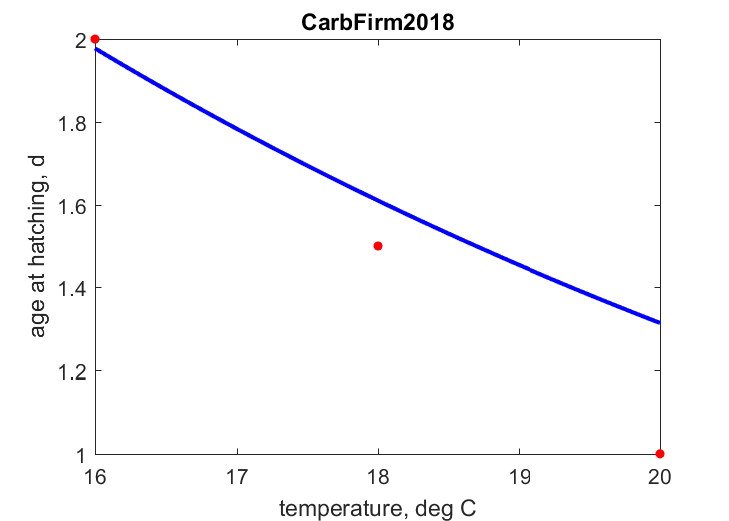
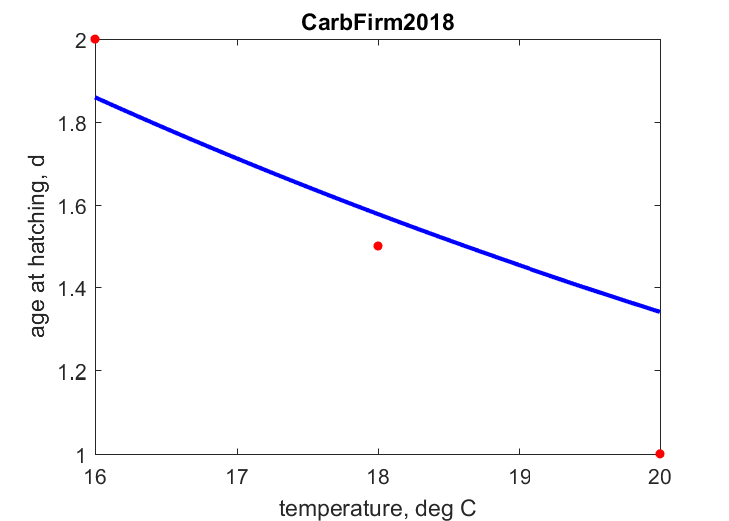
new fits and pars 09-Nov-21

diff --git a/Solea_senegalensis_res.html b/Solea_senegalensis_res.html
@@ -44,7 +44,7 @@
   </div>
 
   <div class="par">
-  <h4>COMPLETE = 3.5; MRE =    0.190; SMSE =    0.205 </h4>
+  <h4>COMPLETE = 3.5; MRE =    0.169; SMSE =    0.197 </h4>
   </div>
 
   <p class="clear"></p>
@@ -53,57 +53,57 @@
   <h2>Data & predictions</h2>
   <TABLE id="prd">
     <TR  class="head"><TH>data</TH> <TH>prd</TH> <TH>RE</TH>  <TH>symbol</TH> <TH>units</TH> <TH>description</TH> </TR>
-    <TR><TD>1.58</TD> <TD>1.382</TD> <TD>0.1253</TD> <TD>ah</TD> <TD>d</TD> <TD>age at hatching</TD></TR>
-    <TR><TD>3.6</TD> <TD>2.968</TD> <TD>0.1756</TD> <TD>ab</TD> <TD>d</TD> <TD>age at birth</TD></TR>
-    <TR><TD> 19</TD> <TD>17.9</TD> <TD>0.05812</TD> <TD>aj</TD> <TD>d</TD> <TD>time since fertilization at END of metamorphosis</TD></TR>
-    <TR><TD>1460</TD> <TD>1174</TD> <TD>0.1961</TD> <TD>ap</TD> <TD>d</TD> <TD>age at puberty</TD></TR>
-    <TR><TD>4015</TD> <TD>4117</TD> <TD>0.02539</TD> <TD>am</TD> <TD>d</TD> <TD>life span</TD></TR>
-    <TR><TD>0.1</TD> <TD>0.07772</TD> <TD>0.2228</TD> <TD>L0</TD> <TD>cm</TD> <TD>egg diameter</TD></TR>
-    <TR><TD>0.1382</TD> <TD>0.1349</TD> <TD>0.02396</TD> <TD>Lh</TD> <TD>cm</TD> <TD>total length at hatching</TD></TR>
-    <TR><TD>0.2484</TD> <TD>0.2125</TD> <TD>0.1445</TD> <TD>Lb</TD> <TD>cm</TD> <TD>total length at birth</TD></TR>
-    <TR><TD>0.9176</TD> <TD>0.6994</TD> <TD>0.2378</TD> <TD>Lj</TD> <TD>cm</TD> <TD>total length at end of metamorphosis</TD></TR>
-    <TR><TD> 38</TD> <TD>35.8</TD> <TD>0.05794</TD> <TD>Lp_f</TD> <TD>cm</TD> <TD>total length at puberty in females</TD></TR>
-    <TR><TD> 33</TD> <TD>34.72</TD> <TD>0.05198</TD> <TD>Lp_m</TD> <TD>cm</TD> <TD>total length at puberty in males</TD></TR>
-    <TR><TD> 52</TD> <TD>47.71</TD> <TD>0.08257</TD> <TD>Li</TD> <TD>cm</TD> <TD>ultimate total length</TD></TR>
-    <TR><TD>4.615e-05</TD> <TD>4.917e-05</TD> <TD>0.0654</TD> <TD>Wd0</TD> <TD>g</TD> <TD>egg dry weigth</TD></TR>
-    <TR><TD>33.19</TD> <TD> 45</TD> <TD>0.3559</TD> <TD>Wdh</TD> <TD>ug</TD> <TD>dry weight at hatching</TD></TR>
-    <TR><TD>35.4</TD> <TD>40.33</TD> <TD>0.1394</TD> <TD>Wdb</TD> <TD>ug</TD> <TD>dry weight at birth</TD></TR>
-    <TR><TD>1281</TD> <TD>1153</TD> <TD>0.1002</TD> <TD>Wdj</TD> <TD>ug</TD> <TD>dry weight at END of metamorphosis</TD></TR>
-    <TR><TD>850</TD> <TD>823.7</TD> <TD>0.03097</TD> <TD>Wwp_f</TD> <TD>g</TD> <TD>wet weight at puberty</TD></TR>
-    <TR><TD>650</TD> <TD>745.4</TD> <TD>0.1468</TD> <TD>Wwp_m</TD> <TD>g</TD> <TD>wet weight at puberty</TD></TR>
-    <TR><TD>1830</TD> <TD>1949</TD> <TD>0.06521</TD> <TD>Wwi</TD> <TD>g</TD> <TD>ultimate wet weight</TD></TR>
-    <TR><TD>4160</TD> <TD>4174</TD> <TD>0.003379</TD> <TD>Ri</TD> <TD>#/d</TD> <TD>maximum reprod rate per day</TD></TR>
-    <TR><TD>  1</TD> <TD>1.131</TD> <TD>0.1315</TD> <TD>E0</TD> <TD>J</TD> <TD>reserve energy in egg</TD></TR>
-    <TR><TD colspan="2">see figure</TD> <TD>0.09914</TD> <TD>Tah</TD> <TD colspan="2">temperature, <font color="blue"><i>vs.</i></font> age at hatching</TD>
-    <TR><TD colspan="2">see figure</TD> <TD>0.01869</TD> <TD>Taj</TD> <TD colspan="2">temperature, <font color="blue"><i>vs.</i></font> time since birth at endmetamorphosis</TD>
-    <TR><TD colspan="2">see figure</TD> <TD>0.1388</TD> <TD>tL</TD> <TD colspan="2">time since birth, <font color="blue"><i>vs.</i></font> total length</TD>
-    <TR><TD colspan="2">see figure</TD> <TD>0.1083</TD> <TD>tL2</TD> <TD colspan="2">time since birth, <font color="blue"><i>vs.</i></font> total length</TD>
-    <TR><TD colspan="2">see figure</TD> <TD>0.1753</TD> <TD>tL_f</TD> <TD colspan="2">time since birth, <font color="blue"><i>vs.</i></font> total length</TD>
-    <TR><TD colspan="2">see figure</TD> <TD>0.2187</TD> <TD>tL_m</TD> <TD colspan="2">time since birth, <font color="blue"><i>vs.</i></font> total length</TD>
-    <TR><TD colspan="2">see figure</TD> <TD>0.3466</TD> <TD>tWd_Man16</TD> <TD colspan="2">time since hatching, <font color="blue"><i>vs.</i></font> dry weight</TD>
-    <TR><TD colspan="2">see figure</TD> <TD>0.2205</TD> <TD>tWd_Man20</TD> <TD colspan="2">time since hatching, <font color="blue"><i>vs.</i></font> dry weight</TD>
-    <TR><TD colspan="2">see figure</TD> <TD>0.2514</TD> <TD>tWd</TD> <TD colspan="2">time since hatching, <font color="blue"><i>vs.</i></font> Dry weigth of larvae along development</TD>
-    <TR><TD colspan="2">see figure</TD> <TD>0.2463</TD> <TD>tWd2</TD> <TD colspan="2">time since hatching, <font color="blue"><i>vs.</i></font> Dry weigth of larvae along development</TD>
-    <TR><TD colspan="2">see figure</TD> <TD>0.1105</TD> <TD>tWd_f1</TD> <TD colspan="2">time since hatching, <font color="blue"><i>vs.</i></font> Dry weigth of larvae along development</TD>
-    <TR><TD colspan="2">see figure</TD> <TD>0.2634</TD> <TD>tWd_f2</TD> <TD colspan="2">time since hatching, <font color="blue"><i>vs.</i></font> Dry weigth of larvae along development</TD>
-    <TR><TD colspan="2">see figure</TD> <TD>0.2621</TD> <TD>tWd_f3</TD> <TD colspan="2">time since hatching, <font color="blue"><i>vs.</i></font> Dry weigth of larvae along development</TD>
-    <TR><TD colspan="2">see figure</TD> <TD>0.2091</TD> <TD>tWd_f4</TD> <TD colspan="2">time since hatching, <font color="blue"><i>vs.</i></font> Dry weigth of larvae along development</TD>
-    <TR><TD colspan="2">see figure</TD> <TD>0.08379</TD> <TD>tLA</TD> <TD colspan="2">time, <font color="blue"><i>vs.</i></font> total length</TD>
-    <TR><TD colspan="2">see figure</TD> <TD>0.09342</TD> <TD>tLB</TD> <TD colspan="2">time, <font color="blue"><i>vs.</i></font> total length</TD>
-    <TR><TD colspan="2">see figure</TD> <TD>0.2271</TD> <TD>tWwA</TD> <TD colspan="2">time, <font color="blue"><i>vs.</i></font> wet weight</TD>
-    <TR><TD colspan="2">see figure</TD> <TD>0.1824</TD> <TD>tWwB</TD> <TD colspan="2">time, <font color="blue"><i>vs.</i></font> wet weight</TD>
-    <TR><TD colspan="2">see figure</TD> <TD>0.1297</TD> <TD>LWw</TD> <TD colspan="2">total length, <font color="blue"><i>vs.</i></font> wet weigth</TD>
-    <TR><TD colspan="2">see figure</TD> <TD>0.2006</TD> <TD>LWw_f</TD> <TD colspan="2">total length, <font color="blue"><i>vs.</i></font> wet weigth</TD>
-    <TR><TD colspan="2">see figure</TD> <TD>0.1016</TD> <TD>LWw_m</TD> <TD colspan="2">total length, <font color="blue"><i>vs.</i></font> wet weigth</TD>
-    <TR><TD colspan="2">see figure</TD> <TD>0.2356</TD> <TD>LWd</TD> <TD colspan="2">total length, <font color="blue"><i>vs.</i></font> dry weigth</TD>
-    <TR><TD colspan="2">see figure</TD> <TD>1.25</TD> <TD>LWd2</TD> <TD colspan="2">total length, <font color="blue"><i>vs.</i></font> dry weigth</TD>
-    <TR><TD colspan="2">see figure</TD> <TD>0.9547</TD> <TD>LWd3</TD> <TD colspan="2">total length, <font color="blue"><i>vs.</i></font> dry weigth</TD>
-    <TR class="psd"><TD>0.02</TD> <TD>0.08175</TD> <TD>3.088</TD> <TD>psd.v</TD> <TD>cm/d</TD> <TD>energy conductance</TD></TR>
-    <TR class="psd"><TD>0.8</TD> <TD>0.8418</TD> <TD>0.05226</TD> <TD>psd.kap</TD> <TD>-</TD> <TD>allocation fraction to soma</TD></TR>
+    <TR><TD>1.58</TD> <TD>1.396</TD> <TD>0.1165</TD> <TD>ah</TD> <TD>d</TD> <TD>age at hatching</TD></TR>
+    <TR><TD>3.6</TD> <TD>3.049</TD> <TD>0.1531</TD> <TD>ab</TD> <TD>d</TD> <TD>age at birth</TD></TR>
+    <TR><TD> 19</TD> <TD>18.17</TD> <TD>0.04375</TD> <TD>aj</TD> <TD>d</TD> <TD>time since fertilization at END of metamorphosis</TD></TR>
+    <TR><TD>1460</TD> <TD>1338</TD> <TD>0.08357</TD> <TD>ap</TD> <TD>d</TD> <TD>age at puberty</TD></TR>
+    <TR><TD>4015</TD> <TD>3972</TD> <TD>0.01077</TD> <TD>am</TD> <TD>d</TD> <TD>life span</TD></TR>
+    <TR><TD>0.1</TD> <TD>0.0763</TD> <TD>0.237</TD> <TD>L0</TD> <TD>cm</TD> <TD>egg diameter</TD></TR>
+    <TR><TD>0.1382</TD> <TD>0.135</TD> <TD>0.02328</TD> <TD>Lh</TD> <TD>cm</TD> <TD>total length at hatching</TD></TR>
+    <TR><TD>0.2484</TD> <TD>0.2097</TD> <TD>0.1558</TD> <TD>Lb</TD> <TD>cm</TD> <TD>total length at birth</TD></TR>
+    <TR><TD>0.9176</TD> <TD>0.7227</TD> <TD>0.2124</TD> <TD>Lj</TD> <TD>cm</TD> <TD>total length at end of metamorphosis</TD></TR>
+    <TR><TD> 38</TD> <TD>37.32</TD> <TD>0.01793</TD> <TD>Lp_f</TD> <TD>cm</TD> <TD>total length at puberty in females</TD></TR>
+    <TR><TD> 33</TD> <TD>33.91</TD> <TD>0.02768</TD> <TD>Lp_m</TD> <TD>cm</TD> <TD>total length at puberty in males</TD></TR>
+    <TR><TD> 52</TD> <TD>50.07</TD> <TD>0.03716</TD> <TD>Li</TD> <TD>cm</TD> <TD>ultimate total length</TD></TR>
+    <TR><TD>4.615e-05</TD> <TD>4.651e-05</TD> <TD>0.007815</TD> <TD>Wd0</TD> <TD>g</TD> <TD>egg dry weigth</TD></TR>
+    <TR><TD>33.19</TD> <TD>42.35</TD> <TD>0.2759</TD> <TD>Wdh</TD> <TD>ug</TD> <TD>dry weight at hatching</TD></TR>
+    <TR><TD>35.4</TD> <TD>36.21</TD> <TD>0.02289</TD> <TD>Wdb</TD> <TD>ug</TD> <TD>dry weight at birth</TD></TR>
+    <TR><TD>1281</TD> <TD>1233</TD> <TD>0.03764</TD> <TD>Wdj</TD> <TD>ug</TD> <TD>dry weight at END of metamorphosis</TD></TR>
+    <TR><TD>850</TD> <TD>860.2</TD> <TD>0.01194</TD> <TD>Wwp_f</TD> <TD>g</TD> <TD>wet weight at puberty</TD></TR>
+    <TR><TD>650</TD> <TD>632.5</TD> <TD>0.02686</TD> <TD>Wwp_m</TD> <TD>g</TD> <TD>wet weight at puberty</TD></TR>
+    <TR><TD>1830</TD> <TD>2077</TD> <TD>0.1351</TD> <TD>Wwi</TD> <TD>g</TD> <TD>ultimate wet weight</TD></TR>
+    <TR><TD>4160</TD> <TD>4120</TD> <TD>0.009622</TD> <TD>Ri</TD> <TD>#/d</TD> <TD>maximum reprod rate per day</TD></TR>
+    <TR><TD>  1</TD> <TD>1.07</TD> <TD>0.07033</TD> <TD>E0</TD> <TD>J</TD> <TD>reserve energy in egg</TD></TR>
+    <TR><TD colspan="2">see figure</TD> <TD>0.1241</TD> <TD>Tah</TD> <TD colspan="2">temperature, <font color="blue"><i>vs.</i></font> age at hatching</TD>
+    <TR><TD colspan="2">see figure</TD> <TD>0.02872</TD> <TD>Taj</TD> <TD colspan="2">temperature, <font color="blue"><i>vs.</i></font> time since birth at endmetamorphosis</TD>
+    <TR><TD colspan="2">see figure</TD> <TD>0.1456</TD> <TD>tL</TD> <TD colspan="2">time since birth, <font color="blue"><i>vs.</i></font> total length</TD>
+    <TR><TD colspan="2">see figure</TD> <TD>0.1114</TD> <TD>tL2</TD> <TD colspan="2">time since birth, <font color="blue"><i>vs.</i></font> total length</TD>
+    <TR><TD colspan="2">see figure</TD> <TD>0.1101</TD> <TD>tL_f</TD> <TD colspan="2">time since birth, <font color="blue"><i>vs.</i></font> total length</TD>
+    <TR><TD colspan="2">see figure</TD> <TD>0.128</TD> <TD>tL_m</TD> <TD colspan="2">time since birth, <font color="blue"><i>vs.</i></font> total length</TD>
+    <TR><TD colspan="2">see figure</TD> <TD>0.3488</TD> <TD>tWd_Man16</TD> <TD colspan="2">time since hatching, <font color="blue"><i>vs.</i></font> dry weight</TD>
+    <TR><TD colspan="2">see figure</TD> <TD>0.1854</TD> <TD>tWd_Man20</TD> <TD colspan="2">time since hatching, <font color="blue"><i>vs.</i></font> dry weight</TD>
+    <TR><TD colspan="2">see figure</TD> <TD>0.2496</TD> <TD>tWd</TD> <TD colspan="2">time since hatching, <font color="blue"><i>vs.</i></font> Dry weigth of larvae along development</TD>
+    <TR><TD colspan="2">see figure</TD> <TD>0.2479</TD> <TD>tWd2</TD> <TD colspan="2">time since hatching, <font color="blue"><i>vs.</i></font> Dry weigth of larvae along development</TD>
+    <TR><TD colspan="2">see figure</TD> <TD>0.1225</TD> <TD>tWd_f1</TD> <TD colspan="2">time since hatching, <font color="blue"><i>vs.</i></font> Dry weigth of larvae along development</TD>
+    <TR><TD colspan="2">see figure</TD> <TD>0.2792</TD> <TD>tWd_f2</TD> <TD colspan="2">time since hatching, <font color="blue"><i>vs.</i></font> Dry weigth of larvae along development</TD>
+    <TR><TD colspan="2">see figure</TD> <TD>0.2828</TD> <TD>tWd_f3</TD> <TD colspan="2">time since hatching, <font color="blue"><i>vs.</i></font> Dry weigth of larvae along development</TD>
+    <TR><TD colspan="2">see figure</TD> <TD>0.2208</TD> <TD>tWd_f4</TD> <TD colspan="2">time since hatching, <font color="blue"><i>vs.</i></font> Dry weigth of larvae along development</TD>
+    <TR><TD colspan="2">see figure</TD> <TD>0.08117</TD> <TD>tLA</TD> <TD colspan="2">time, <font color="blue"><i>vs.</i></font> total length</TD>
+    <TR><TD colspan="2">see figure</TD> <TD>0.05634</TD> <TD>tLB</TD> <TD colspan="2">time, <font color="blue"><i>vs.</i></font> total length</TD>
+    <TR><TD colspan="2">see figure</TD> <TD>0.1939</TD> <TD>tWwA</TD> <TD colspan="2">time, <font color="blue"><i>vs.</i></font> wet weight</TD>
+    <TR><TD colspan="2">see figure</TD> <TD>0.1858</TD> <TD>tWwB</TD> <TD colspan="2">time, <font color="blue"><i>vs.</i></font> wet weight</TD>
+    <TR><TD colspan="2">see figure</TD> <TD>0.1419</TD> <TD>LWw</TD> <TD colspan="2">total length, <font color="blue"><i>vs.</i></font> wet weigth</TD>
+    <TR><TD colspan="2">see figure</TD> <TD>0.2254</TD> <TD>LWw_f</TD> <TD colspan="2">total length, <font color="blue"><i>vs.</i></font> wet weigth</TD>
+    <TR><TD colspan="2">see figure</TD> <TD>0.09978</TD> <TD>LWw_m</TD> <TD colspan="2">total length, <font color="blue"><i>vs.</i></font> wet weigth</TD>
+    <TR><TD colspan="2">see figure</TD> <TD>0.2419</TD> <TD>LWd</TD> <TD colspan="2">total length, <font color="blue"><i>vs.</i></font> dry weigth</TD>
+    <TR><TD colspan="2">see figure</TD> <TD>1.199</TD> <TD>LWd2</TD> <TD colspan="2">total length, <font color="blue"><i>vs.</i></font> dry weigth</TD>
+    <TR><TD colspan="2">see figure</TD> <TD>0.8779</TD> <TD>LWd3</TD> <TD colspan="2">total length, <font color="blue"><i>vs.</i></font> dry weigth</TD>
+    <TR class="psd"><TD>0.02</TD> <TD>0.07982</TD> <TD>2.991</TD> <TD>psd.v</TD> <TD>cm/d</TD> <TD>energy conductance</TD></TR>
+    <TR class="psd"><TD>0.8</TD> <TD>0.8387</TD> <TD>0.04833</TD> <TD>psd.kap</TD> <TD>-</TD> <TD>allocation fraction to soma</TD></TR>
     <TR class="psd"><TD>0.95</TD> <TD>0.95</TD> <TD>  0</TD> <TD>psd.kap_R</TD> <TD>-</TD> <TD>reproduction efficiency</TD></TR>
-    <TR class="psd"><TD> 18</TD> <TD>28.71</TD> <TD>0.5952</TD> <TD>psd.p_M</TD> <TD>J/d.cm^3</TD> <TD>vol-spec som maint</TD></TR>
+    <TR class="psd"><TD> 18</TD> <TD>23.85</TD> <TD>0.325</TD> <TD>psd.p_M</TD> <TD>J/d.cm^3</TD> <TD>vol-spec som maint</TD></TR>
     <TR class="psd"><TD>0.002</TD> <TD>0.002</TD> <TD>  0</TD> <TD>psd.k_J</TD> <TD>1/d</TD> <TD>maturity maint rate coefficient</TD></TR>
-    <TR class="psd"><TD>0.8</TD> <TD>0.8416</TD> <TD>0.05196</TD> <TD>psd.kap_G</TD> <TD>-</TD> <TD>growth efficiency</TD></TR>
+    <TR class="psd"><TD>0.8</TD> <TD>0.7989</TD> <TD>0.001326</TD> <TD>psd.kap_G</TD> <TD>-</TD> <TD>growth efficiency</TD></TR>
   </TABLE>
   </div>
 
@@ -112,39 +112,39 @@
   <TABLE id="par">
     <TR class="head"><TH>symbol</TH> <TH>units</TH> <TH>value</TH>  <TH>free</TH> <TH>description</TH> </TR>
     <TR><TD>T_ref</TD> <TD>K</TD> <TD>293.1</TD> <TD>0</TD> <TD>Reference temperature</TD></TR>
-    <TR><TD>T_A</TD> <TD>K</TD> <TD>8663</TD> <TD>1</TD> <TD>Arrhenius temperature</TD></TR>
-    <TR><TD>z</TD> <TD>-</TD> <TD>3.634</TD> <TD>1</TD> <TD>zoom factor</TD></TR>
+    <TR><TD>T_A</TD> <TD>K</TD> <TD>6930</TD> <TD>1</TD> <TD>Arrhenius temperature</TD></TR>
+    <TR><TD>z</TD> <TD>-</TD> <TD>3.61</TD> <TD>1</TD> <TD>zoom factor</TD></TR>
     <TR><TD>F_m</TD> <TD>l/d.cm^2</TD> <TD>6.5</TD> <TD>0</TD> <TD>{F_m}, max spec searching rate</TD></TR>
     <TR><TD>kap_X</TD> <TD>-</TD> <TD>0.8</TD> <TD>0</TD> <TD>digestion efficiency of food to reserve</TD></TR>
     <TR><TD>kap_P</TD> <TD>-</TD> <TD>0.1</TD> <TD>0</TD> <TD>faecation efficiency of food to faeces</TD></TR>
-    <TR><TD>v</TD> <TD>cm/d</TD> <TD>0.08175</TD> <TD>1</TD> <TD>energy conductance</TD></TR>
-    <TR><TD>kap</TD> <TD>-</TD> <TD>0.8418</TD> <TD>1</TD> <TD>allocation fraction to soma</TD></TR>
+    <TR><TD>v</TD> <TD>cm/d</TD> <TD>0.07982</TD> <TD>1</TD> <TD>energy conductance</TD></TR>
+    <TR><TD>kap</TD> <TD>-</TD> <TD>0.8387</TD> <TD>1</TD> <TD>allocation fraction to soma</TD></TR>
     <TR><TD>kap_R</TD> <TD>-</TD> <TD>0.95</TD> <TD>0</TD> <TD>reproduction efficiency</TD></TR>
-    <TR><TD>p_M</TD> <TD>J/d.cm^3</TD> <TD>28.71</TD> <TD>1</TD> <TD>[p_M], vol-spec somatic maint</TD></TR>
+    <TR><TD>p_M</TD> <TD>J/d.cm^3</TD> <TD>23.85</TD> <TD>1</TD> <TD>[p_M], vol-spec somatic maint</TD></TR>
     <TR><TD>p_T</TD> <TD>J/d.cm^2</TD> <TD>  0</TD> <TD>0</TD> <TD>{p_T}, surf-spec somatic maint</TD></TR>
     <TR><TD>k_J</TD> <TD>1/d</TD> <TD>0.002</TD> <TD>0</TD> <TD>maturity maint rate coefficient</TD></TR>
-    <TR><TD>E_G</TD> <TD>J/cm^3</TD> <TD>4972</TD> <TD>1</TD> <TD>[E_G], spec cost for structure</TD></TR>
-    <TR><TD>E_Hb</TD> <TD>J</TD> <TD>0.1423</TD> <TD>1</TD> <TD>maturity at birth</TD></TR>
-    <TR><TD>E_Hj</TD> <TD>J</TD> <TD>4.381</TD> <TD>1</TD> <TD>maturity at metamorphosis</TD></TR>
-    <TR><TD>E_Hp</TD> <TD>J</TD> <TD>1.062e+06</TD> <TD>1</TD> <TD>maturity at puberty</TD></TR>
-    <TR><TD>h_a</TD> <TD>1/d^2</TD> <TD>5.717e-09</TD> <TD>1</TD> <TD>Weibull aging acceleration</TD></TR>
-    <TR><TD>s_G</TD> <TD>-</TD> <TD>0.001</TD> <TD>0</TD> <TD>Gompertz stress coefficient</TD></TR>
-    <TR><TD>E_Hh</TD> <TD>J</TD> <TD>0.03637</TD> <TD>1</TD> <TD>maturity at hatch</TD></TR>
-    <TR><TD>del_M</TD> <TD>-</TD> <TD>0.2381</TD> <TD>1</TD> <TD>shape coefficient after metamorphosis</TD></TR>
-    <TR><TD>del_Me</TD> <TD>-</TD> <TD>0.251</TD> <TD>1</TD> <TD>shape coefficient before metamorphosis</TD></TR>
+    <TR><TD>E_G</TD> <TD>J/cm^3</TD> <TD>5237</TD> <TD>1</TD> <TD>[E_G], spec cost for structure</TD></TR>
+    <TR><TD>E_Hb</TD> <TD>J</TD> <TD>0.143</TD> <TD>1</TD> <TD>maturity at birth</TD></TR>
+    <TR><TD>E_Hj</TD> <TD>J</TD> <TD>4.969</TD> <TD>1</TD> <TD>maturity at metamorphosis</TD></TR>
+    <TR><TD>E_Hp</TD> <TD>J</TD> <TD>1.104e+06</TD> <TD>1</TD> <TD>maturity at puberty</TD></TR>
+    <TR><TD>h_a</TD> <TD>1/d^2</TD> <TD>5.663e-09</TD> <TD>1</TD> <TD>Weibull aging acceleration</TD></TR>
+    <TR><TD>s_G</TD> <TD>-</TD> <TD>0.0001</TD> <TD>0</TD> <TD>Gompertz stress coefficient</TD></TR>
+    <TR><TD>E_Hh</TD> <TD>J</TD> <TD>0.03813</TD> <TD>1</TD> <TD>maturity at hatch</TD></TR>
+    <TR><TD>del_M</TD> <TD>-</TD> <TD>0.2347</TD> <TD>1</TD> <TD>shape coefficient after metamorphosis</TD></TR>
+    <TR><TD>del_Me</TD> <TD>-</TD> <TD>0.2485</TD> <TD>1</TD> <TD>shape coefficient before metamorphosis</TD></TR>
     <TR><TD>f</TD> <TD>-</TD> <TD>  1</TD> <TD>0</TD> <TD>scaled functional response for 0-var data from the field</TD></TR>
-    <TR><TD>f_CanaFern1</TD> <TD>-</TD> <TD>0.4965</TD> <TD>1</TD> <TD>scaled functional response for tWd_f1 data</TD></TR>
-    <TR><TD>f_CanaFern2</TD> <TD>-</TD> <TD>0.4541</TD> <TD>1</TD> <TD>scaled functional response for tWd_f2 data</TD></TR>
-    <TR><TD>f_CanaFern3</TD> <TD>-</TD> <TD>0.5319</TD> <TD>1</TD> <TD>scaled functional response for tWd_f3 data</TD></TR>
-    <TR><TD>f_CanaFern4</TD> <TD>-</TD> <TD>0.4868</TD> <TD>1</TD> <TD>scaled functional response for tWd_f4 data</TD></TR>
-    <TR><TD>f_Man</TD> <TD>-</TD> <TD>0.7269</TD> <TD>1</TD> <TD>scaled functional response for Manchado pers.comm. (aquaculture) data</TD></TR>
-    <TR><TD>f_ParrYufe</TD> <TD>-</TD> <TD>0.5792</TD> <TD>1</TD> <TD>scaled functional response for ParrYufe2001 data</TD></TR>
-    <TR><TD>f_RibeEngr</TD> <TD>-</TD> <TD>0.3693</TD> <TD>1</TD> <TD>scaled functional response for RibeEngr2017 data</TD></TR>
-    <TR><TD>f_TeixCabr</TD> <TD>-</TD> <TD>0.9339</TD> <TD>1</TD> <TD>scaled functional response for tL3 data</TD></TR>
-    <TR><TD>f_YufeParr</TD> <TD>-</TD> <TD>0.7514</TD> <TD>1</TD> <TD>scaled functional response for YufeParr1999 data</TD></TR>
-    <TR><TD>f_exp</TD> <TD>-</TD> <TD>-1.416</TD> <TD>1</TD> <TD>scaled functional response for PA exp data</TD></TR>
-    <TR><TD>f_tL</TD> <TD>-</TD> <TD>0.6882</TD> <TD>1</TD> <TD>scaled functional response for tL data</TD></TR>
-    <TR><TD>z_m</TD> <TD>-</TD> <TD>3.523</TD> <TD>1</TD> <TD>zoom factor for males</TD></TR>
+    <TR><TD>f_CanaFern1</TD> <TD>-</TD> <TD>0.5962</TD> <TD>1</TD> <TD>scaled functional response for tWd_f1 data</TD></TR>
+    <TR><TD>f_CanaFern2</TD> <TD>-</TD> <TD>0.5559</TD> <TD>1</TD> <TD>scaled functional response for tWd_f2 data</TD></TR>
+    <TR><TD>f_CanaFern3</TD> <TD>-</TD> <TD>0.6529</TD> <TD>1</TD> <TD>scaled functional response for tWd_f3 data</TD></TR>
+    <TR><TD>f_CanaFern4</TD> <TD>-</TD> <TD>0.5916</TD> <TD>1</TD> <TD>scaled functional response for tWd_f4 data</TD></TR>
+    <TR><TD>f_Man</TD> <TD>-</TD> <TD>0.8907</TD> <TD>1</TD> <TD>scaled functional response for Manchado pers.comm. (aquaculture) data</TD></TR>
+    <TR><TD>f_ParrYufe</TD> <TD>-</TD> <TD>0.719</TD> <TD>1</TD> <TD>scaled functional response for ParrYufe2001 data</TD></TR>
+    <TR><TD>f_RibeEngr</TD> <TD>-</TD> <TD>0.4474</TD> <TD>1</TD> <TD>scaled functional response for RibeEngr2017 data</TD></TR>
+    <TR><TD>f_TeixCabr</TD> <TD>-</TD> <TD>0.8106</TD> <TD>1</TD> <TD>scaled functional response for tL3 data</TD></TR>
+    <TR><TD>f_YufeParr</TD> <TD>-</TD> <TD>0.939</TD> <TD>1</TD> <TD>scaled functional response for YufeParr1999 data</TD></TR>
+    <TR><TD>f_exp</TD> <TD>-</TD> <TD>1.428</TD> <TD>1</TD> <TD>scaled functional response for PA exp data</TD></TR>
+    <TR><TD>f_tL</TD> <TD>-</TD> <TD>0.8065</TD> <TD>1</TD> <TD>scaled functional response for tL data</TD></TR>
+    <TR><TD>z_m</TD> <TD>-</TD> <TD>3.277</TD> <TD>1</TD> <TD>zoom factor for males</TD></TR>
   </TABLE>
   </div>
 

diff --git a/pars_init_Solea_senegalensis.m b/pars_init_Solea_senegalensis.m
@@ -6,41 +6,41 @@ metaPar.model = 'abj';
 par.T_ref = 293.15;   free.T_ref = 0;   units.T_ref = 'K';        label.T_ref = 'Reference temperature'; 
 
 %% core primary parameters 
-par.T_A = 8663.1283;  free.T_A   = 1;   units.T_A = 'K';          label.T_A = 'Arrhenius temperature'; 
-par.z = 3.6342;       free.z     = 1;   units.z = '-';            label.z = 'zoom factor'; 
+par.T_A = 6929.627;   free.T_A   = 1;   units.T_A = 'K';          label.T_A = 'Arrhenius temperature'; 
+par.z = 3.6096;       free.z     = 1;   units.z = '-';            label.z = 'zoom factor'; 
 par.F_m = 6.5;        free.F_m   = 0;   units.F_m = 'l/d.cm^2';   label.F_m = '{F_m}, max spec searching rate'; 
 par.kap_X = 0.8;      free.kap_X = 0;   units.kap_X = '-';        label.kap_X = 'digestion efficiency of food to reserve'; 
 par.kap_P = 0.1;      free.kap_P = 0;   units.kap_P = '-';        label.kap_P = 'faecation efficiency of food to faeces'; 
-par.v = 0.081753;     free.v     = 1;   units.v = 'cm/d';         label.v = 'energy conductance'; 
-par.kap = 0.84181;    free.kap   = 1;   units.kap = '-';          label.kap = 'allocation fraction to soma'; 
+par.v = 0.079825;     free.v     = 1;   units.v = 'cm/d';         label.v = 'energy conductance'; 
+par.kap = 0.83866;    free.kap   = 1;   units.kap = '-';          label.kap = 'allocation fraction to soma'; 
 par.kap_R = 0.95;     free.kap_R = 0;   units.kap_R = '-';        label.kap_R = 'reproduction efficiency'; 
-par.p_M = 28.7129;    free.p_M   = 1;   units.p_M = 'J/d.cm^3';   label.p_M = '[p_M], vol-spec somatic maint'; 
+par.p_M = 23.8492;    free.p_M   = 1;   units.p_M = 'J/d.cm^3';   label.p_M = '[p_M], vol-spec somatic maint'; 
 par.p_T = 0;          free.p_T   = 0;   units.p_T = 'J/d.cm^2';   label.p_T = '{p_T}, surf-spec somatic maint'; 
 par.k_J = 0.002;      free.k_J   = 0;   units.k_J = '1/d';        label.k_J = 'maturity maint rate coefficient'; 
-par.E_G = 4971.7695;  free.E_G   = 1;   units.E_G = 'J/cm^3';     label.E_G = '[E_G], spec cost for structure'; 
-par.E_Hb = 1.423e-01; free.E_Hb  = 1;   units.E_Hb = 'J';         label.E_Hb = 'maturity at birth'; 
-par.E_Hj = 4.381e+00; free.E_Hj  = 1;   units.E_Hj = 'J';         label.E_Hj = 'maturity at metamorphosis'; 
-par.E_Hp = 1.062e+06; free.E_Hp  = 1;   units.E_Hp = 'J';         label.E_Hp = 'maturity at puberty'; 
-par.h_a = 5.717e-09;  free.h_a   = 1;   units.h_a = '1/d^2';      label.h_a = 'Weibull aging acceleration'; 
-par.s_G = 0.001;      free.s_G   = 0;   units.s_G = '-';          label.s_G = 'Gompertz stress coefficient'; 
+par.E_G = 5237.0711;  free.E_G   = 1;   units.E_G = 'J/cm^3';     label.E_G = '[E_G], spec cost for structure'; 
+par.E_Hb = 1.430e-01; free.E_Hb  = 1;   units.E_Hb = 'J';         label.E_Hb = 'maturity at birth'; 
+par.E_Hj = 4.969e+00; free.E_Hj  = 1;   units.E_Hj = 'J';         label.E_Hj = 'maturity at metamorphosis'; 
+par.E_Hp = 1.104e+06; free.E_Hp  = 1;   units.E_Hp = 'J';         label.E_Hp = 'maturity at puberty'; 
+par.h_a = 5.663e-09;  free.h_a   = 1;   units.h_a = '1/d^2';      label.h_a = 'Weibull aging acceleration'; 
+par.s_G = 0.0001;     free.s_G   = 0;   units.s_G = '-';          label.s_G = 'Gompertz stress coefficient'; 
 
 %% other parameters 
-par.E_Hh = 3.637e-02; free.E_Hh  = 1;   units.E_Hh = 'J';         label.E_Hh = 'maturity at hatch'; 
-par.del_M = 0.23814;  free.del_M = 1;   units.del_M = '-';        label.del_M = 'shape coefficient after metamorphosis'; 
-par.del_Me = 0.25097;  free.del_Me = 1;   units.del_Me = '-';       label.del_Me = 'shape coefficient before metamorphosis'; 
+par.E_Hh = 3.813e-02; free.E_Hh  = 1;   units.E_Hh = 'J';         label.E_Hh = 'maturity at hatch'; 
+par.del_M = 0.23475;  free.del_M = 1;   units.del_M = '-';        label.del_M = 'shape coefficient after metamorphosis'; 
+par.del_Me = 0.24851;  free.del_Me = 1;   units.del_Me = '-';       label.del_Me = 'shape coefficient before metamorphosis'; 
 par.f = 1;            free.f     = 0;   units.f = '-';            label.f = 'scaled functional response for 0-var data from the field'; 
-par.f_CanaFern1 = 0.4965;  free.f_CanaFern1 = 1;   units.f_CanaFern1 = '-';  label.f_CanaFern1 = 'scaled functional response for tWd_f1 data'; 
-par.f_CanaFern2 = 0.4541;  free.f_CanaFern2 = 1;   units.f_CanaFern2 = '-';  label.f_CanaFern2 = 'scaled functional response for tWd_f2 data'; 
-par.f_CanaFern3 = 0.53188;  free.f_CanaFern3 = 1;   units.f_CanaFern3 = '-';  label.f_CanaFern3 = 'scaled functional response for tWd_f3 data'; 
-par.f_CanaFern4 = 0.4868;  free.f_CanaFern4 = 1;   units.f_CanaFern4 = '-';  label.f_CanaFern4 = 'scaled functional response for tWd_f4 data'; 
-par.f_Man = 0.7269;   free.f_Man = 1;   units.f_Man = '-';        label.f_Man = 'scaled functional response for Manchado pers.comm. (aquaculture) data'; 
-par.f_ParrYufe = 0.57917;  free.f_ParrYufe = 1;   units.f_ParrYufe = '-';   label.f_ParrYufe = 'scaled functional response for ParrYufe2001 data'; 
-par.f_RibeEngr = 0.36925;  free.f_RibeEngr = 1;   units.f_RibeEngr = '-';   label.f_RibeEngr = 'scaled functional response for RibeEngr2017 data'; 
-par.f_TeixCabr = 0.93389;  free.f_TeixCabr = 1;   units.f_TeixCabr = '-';   label.f_TeixCabr = 'scaled functional response for tL3 data'; 
-par.f_YufeParr = 0.7514;  free.f_YufeParr = 1;   units.f_YufeParr = '-';   label.f_YufeParr = 'scaled functional response for YufeParr1999 data'; 
-par.f_exp = -1.4162;  free.f_exp = 1;   units.f_exp = '-';        label.f_exp = 'scaled functional response for PA exp data'; 
-par.f_tL = 0.68817;   free.f_tL  = 1;   units.f_tL = '-';         label.f_tL = 'scaled functional response for tL data'; 
-par.z_m = 3.5226;     free.z_m   = 1;   units.z_m = '-';          label.z_m = 'zoom factor for males'; 
+par.f_CanaFern1 = 0.59622;  free.f_CanaFern1 = 1;   units.f_CanaFern1 = '-';  label.f_CanaFern1 = 'scaled functional response for tWd_f1 data'; 
+par.f_CanaFern2 = 0.55589;  free.f_CanaFern2 = 1;   units.f_CanaFern2 = '-';  label.f_CanaFern2 = 'scaled functional response for tWd_f2 data'; 
+par.f_CanaFern3 = 0.65286;  free.f_CanaFern3 = 1;   units.f_CanaFern3 = '-';  label.f_CanaFern3 = 'scaled functional response for tWd_f3 data'; 
+par.f_CanaFern4 = 0.59164;  free.f_CanaFern4 = 1;   units.f_CanaFern4 = '-';  label.f_CanaFern4 = 'scaled functional response for tWd_f4 data'; 
+par.f_Man = 0.89066;  free.f_Man = 1;   units.f_Man = '-';        label.f_Man = 'scaled functional response for Manchado pers.comm. (aquaculture) data'; 
+par.f_ParrYufe = 0.71897;  free.f_ParrYufe = 1;   units.f_ParrYufe = '-';   label.f_ParrYufe = 'scaled functional response for ParrYufe2001 data'; 
+par.f_RibeEngr = 0.44736;  free.f_RibeEngr = 1;   units.f_RibeEngr = '-';   label.f_RibeEngr = 'scaled functional response for RibeEngr2017 data'; 
+par.f_TeixCabr = 0.81061;  free.f_TeixCabr = 1;   units.f_TeixCabr = '-';   label.f_TeixCabr = 'scaled functional response for tL3 data'; 
+par.f_YufeParr = 0.93896;  free.f_YufeParr = 1;   units.f_YufeParr = '-';   label.f_YufeParr = 'scaled functional response for YufeParr1999 data'; 
+par.f_exp = 1.4276;   free.f_exp = 1;   units.f_exp = '-';        label.f_exp = 'scaled functional response for PA exp data'; 
+par.f_tL = 0.8065;    free.f_tL  = 1;   units.f_tL = '-';         label.f_tL = 'scaled functional response for tL data'; 
+par.z_m = 3.277;      free.z_m   = 1;   units.z_m = '-';          label.z_m = 'zoom factor for males'; 
 
 %% set chemical parameters from Kooy2010 
 [par, units, label, free] = addchem(par, units, label, free, metaData.phylum, metaData.class); 

diff --git a/predict_Solea_senegalensis.m b/predict_Solea_senegalensis.m
@@ -26,15 +26,15 @@ function [prdData, info] = predict_Solea_senegalensis(par, data, auxData)
  
 % 0-var data 'ah';'ab';'tj';'aj';'tp';'am';'Lh';'Lb';'Lp';'Li';'Wwh';'Wwb';'Wdh';'Wdb';'Ri'
   % compute temperature correction factors
-  TC_ah = tempcorr(temp.ah, T_ref, T_Ae); % temp correction for embryo
-  TC_ab = tempcorr(temp.ab, T_ref, T_Ae); % temp correction for embryo
+  TC_ah = tempcorr(temp.ah, T_ref, T_A); 
+  TC_ab = tempcorr(temp.ab, T_ref, T_A); 
   TC_aj = tempcorr(temp.aj, T_ref, T_A);
   TC_ap = tempcorr(temp.ap, T_ref, T_A);
   TC_am = tempcorr(temp.am, T_ref, T_A);
   TC_Ri = tempcorr(temp.Ri, T_ref, T_A);
   
   % univariate data temp corrections
-  TC_Tah = tempcorr(C2K(data.Tah(:,1)), T_ref, T_Ae);
+  TC_Tah = tempcorr(C2K(data.Tah(:,1)), T_ref, T_A);
   %TC_Tab = tempcorr(C2K(data.Tab(:,1)), T_ref, T_A);
   TC_Taj = tempcorr(C2K(data.Taj(:,1)), T_ref, T_A);
   TC_Taj_Man = tempcorr(C2K(temp.Taj(:,2)), T_ref, T_A); % temp correction vector for Manchado metamorphosis data!

diff --git a/mydata_Solea_senegalensis.m b/mydata_Solea_senegalensis.m
@@ -751,7 +751,7 @@ bibkey.LWd3 = 'RibeEngr2017';
 
 %% set weights for all real data
 weights = setweights(data, []);
-weights.Tah = 5 * weights.Tah; 
+weights.Tah = 10 * weights.Tah; 
 %weights.ab = 5 * weights.ab; 
 %weights.Wwj0 = 0 * weights.Wwj0; 
 weights.tWd = 10 * weights.tWd;
